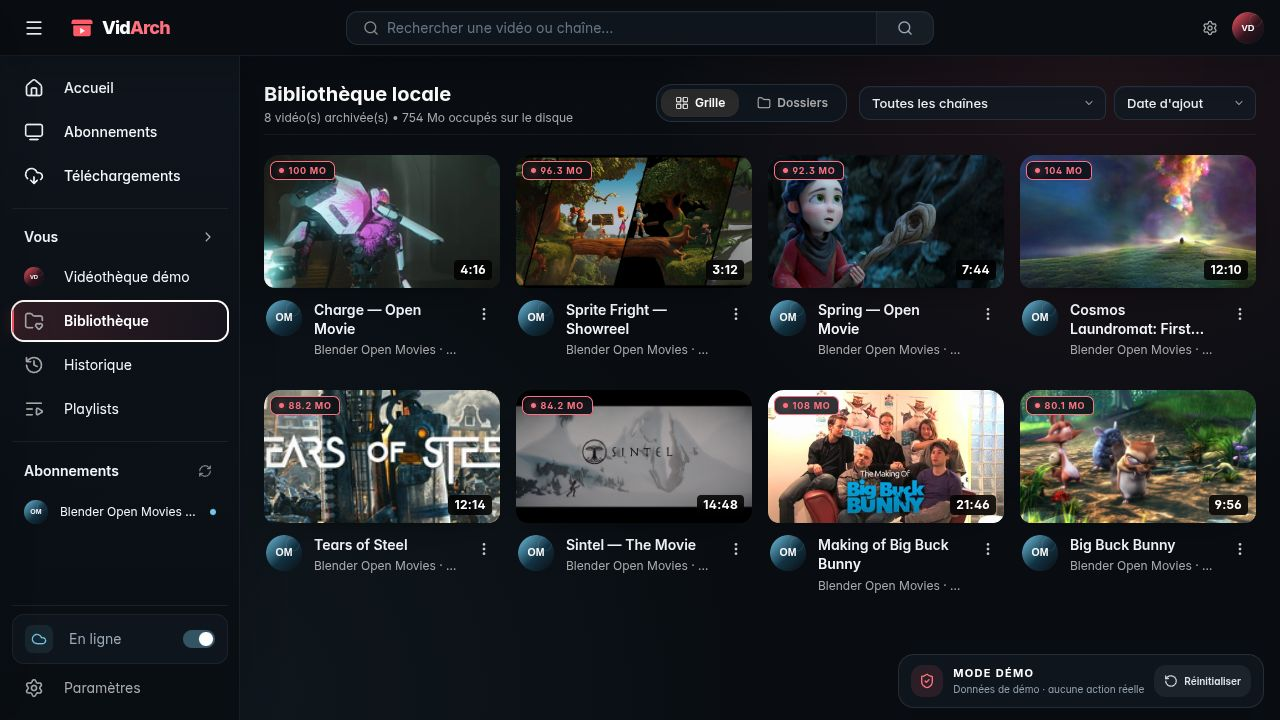
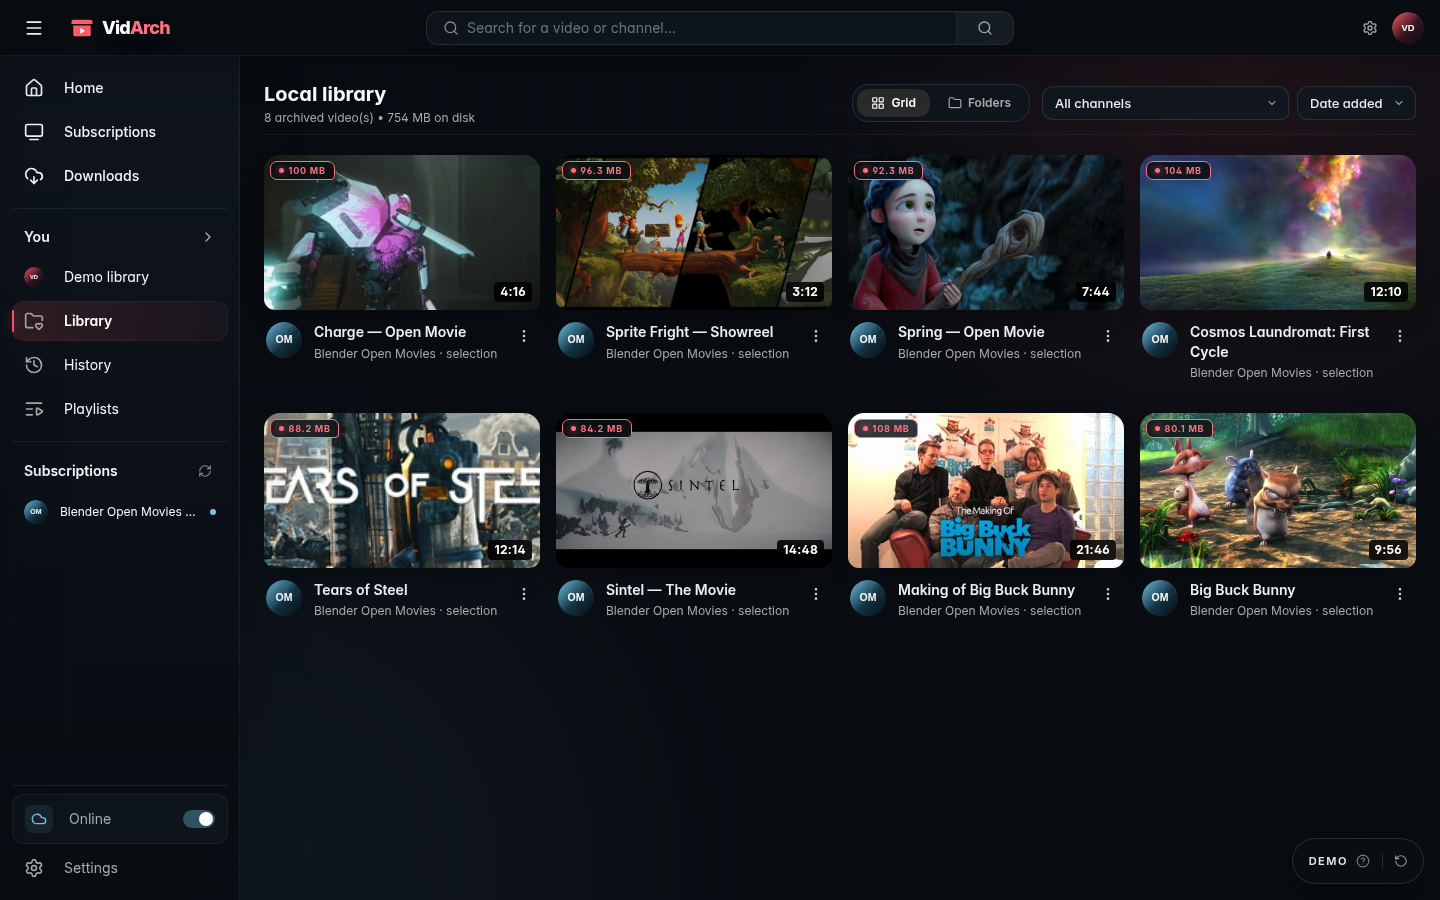
docs: refresh README screenshots from the isolated English demo (#55)

diff --git a/client/src/demo/fixtures.ts b/client/src/demo/fixtures.ts
@@ -128,7 +128,7 @@ export const demoVideos: Video[] = videoSeeds.map((seed, index) => {
     channel_title: channel.title,
     channel_avatar: channel.avatar_url,
     title: seed.title,
-    description: `${seed.project} est présenté à partir de contenus publiés par Blender Studio sous licence ${seed.license}. Les compteurs et états de bibliothèque sont simulés localement pour la démonstration VidArch.`,
+    description: `${seed.project} is presented from Blender Studio materials released under ${seed.license}. Counters and library state are simulated locally for the VidArch demonstration.`,
     duration: seed.duration,
     duration_string: durationString(seed.duration),
     view_count: 48_000 + index * 37_420,

diff --git a/README.md b/README.md
@@ -26,10 +26,17 @@ It remains one product across online and local use: discovery becomes download, 
 
 ## Product preview
 
-| Familiar discovery | Permanent local library |
+Home, library, subscriptions, and playback below use locally bundled Blender Open Movie stills and simulated account state. Screenshots use the English interface with the demo intro dialog closed.
+
+| Permanent local library | Subscriptions |
 | --- | --- |
-| Follow subscriptions, search, browse channels, and move between online and downloaded media. | Filter archived files, inspect disk usage, organize channel spaces, and play media from the server. |
-| <img src="docs/assets/screenshots/vidarch-demo-home.png" alt="VidArch discovery and downloaded-video feed" width="640" /> | <img src="docs/assets/screenshots/vidarch-demo-library.png" alt="VidArch permanent local video library" width="640" /> |
+| Filter archived files, inspect disk usage, and keep channel spaces on the server. | Follow a creator space and move between downloaded and discoverable titles. |
+| <img src="docs/assets/screenshots/vidarch-demo-library.png" alt="VidArch permanent local video library" width="640" /> | <img src="docs/assets/screenshots/vidarch-demo-subscriptions.png" alt="VidArch subscriptions with a Blender Open Movies demo channel" width="640" /> |
+
+| Local playback | Settings |
+| --- | --- |
+| Play archived media with seeking, playback speed, and related titles in the same workspace. | Choose the interface language and keep remote discovery optional. |
+| <img src="docs/assets/screenshots/vidarch-demo-watch.png" alt="VidArch watch page for the Big Buck Bunny demo title" width="640" /> | <img src="docs/assets/screenshots/vidarch-demo-settings.png" alt="VidArch settings with English selected" width="640" /> |
 
 ## Highlights
 

diff --git a/CHANGELOG.md b/CHANGELOG.md
@@ -6,10 +6,16 @@ The format follows [Keep a Changelog](https://keepachangelog.com/en/1.1.0/), and
 
 ## [Unreleased]
 
+### Security
+
+- Update multer to `2.3.0` so the protected dependency audit can pass.
+
 ### Changed
 
 - Treat `.env` as an optional advanced override so the default Docker path starts cleanly when it is absent.
 - Let Docker Compose derive the stack and container names, and remove the obsolete duplicate Compose example now that the default file pulls GHCR directly.
+- Refresh README product screenshots from the isolated English public demo, with the intro dialog closed and additional views of the library, subscriptions, watch page, and settings.
+- Present Open Movie demo descriptions in English so the isolated showcase matches the English interface.
 
 ## [0.1.4] - 2026-09-08
 

diff --git a/DEMO.md b/DEMO.md
@@ -40,6 +40,21 @@ npm run build:demo
 npm --prefix client run preview:demo
 ```
 
+## Reproducible documentation screenshots
+
+Generate the README screenshot set from an isolated local demo server with:
+
+```bash
+npm ci
+npx playwright install chromium
+npm run demo:capture
+```
+
+The script starts its own Vite demo server on `127.0.0.1:2515`, forces English,
+closes the public-demo intro dialog before the first capture, and refuses to
+reuse an existing server. The compact demo chip may remain visible. Use
+`VIDARCH_CAPTURE_PORT` if port `2515` is unavailable.
+
 ## Intended deployment
 
 Create a second Vercel project from this repository and let the root `vercel.json` build only the demo profile. Keep the product itself on its self-hosted/Docker deployment.
